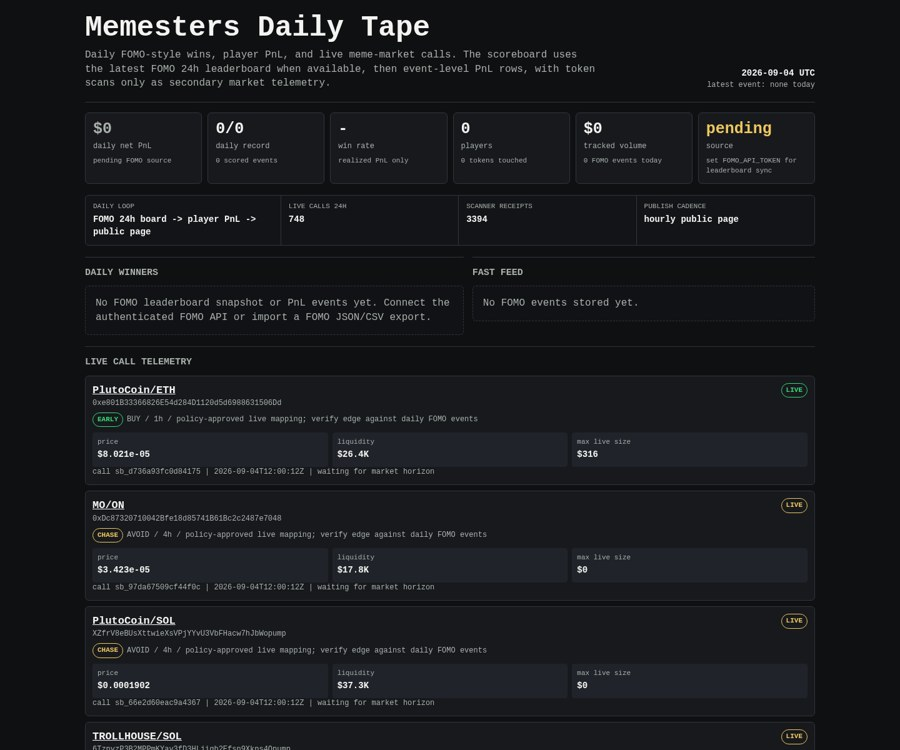
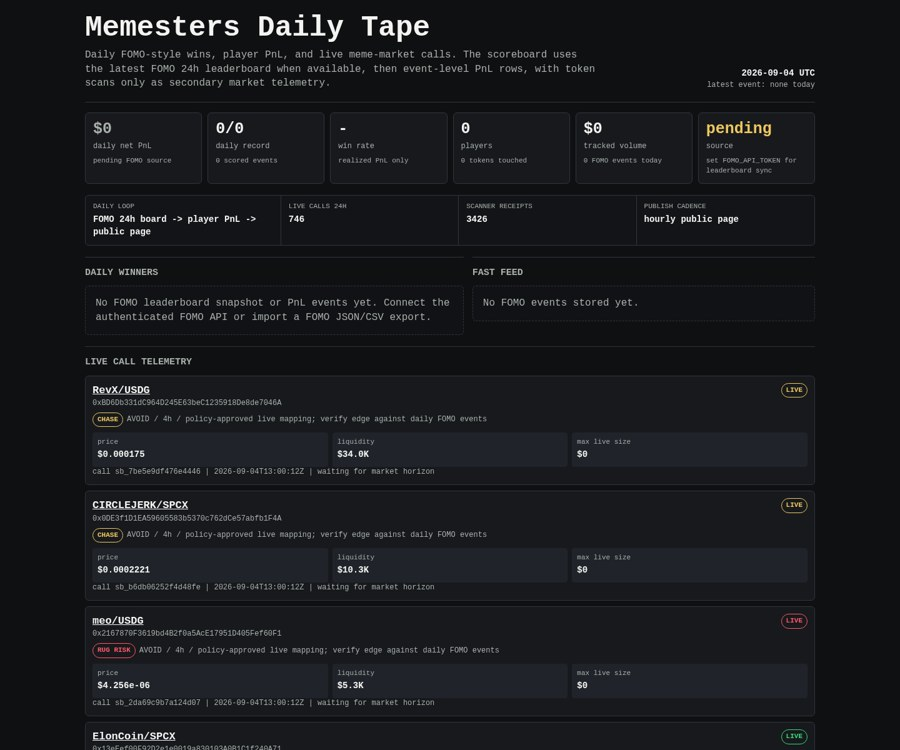
Update Memesters scoreboard

diff --git a/memesters/index.html b/memesters/index.html
@@ -149,8 +149,8 @@
 
     <div class="rail" aria-label="live operating loop">
       <div><span>daily loop</span><b>FOMO 24h board -> player PnL -> public page</b></div>
-      <div><span>live calls 24h</span><b>748</b></div>
-      <div><span>scanner receipts</span><b>3394</b></div>
+      <div><span>live calls 24h</span><b>746</b></div>
+      <div><span>scanner receipts</span><b>3426</b></div>
       <div><span>publish cadence</span><b>hourly public page</b></div>
     </div>
 
@@ -171,29 +171,8 @@
     <article class="receipt">
       <div class="receipt-head">
         <div>
-          <div class="pair"><a href="https://dexscreener.com/robinhood/0x547f366ce789671f0800890b6f69a44150104eac425c7446775c95072f25ee17">PlutoCoin/ETH</a></div>
-          <div class="addr">0xe801B33366826E54d284D1120d5d6988631506Dd</div>
-          <div class="addr policy-line">
-            <span class="badge early">EARLY</span>
-            <span>BUY / 1h / policy-approved live mapping; verify edge against daily FOMO events</span>
-          </div>
-        </div>
-        <span class="badge early">LIVE</span>
-      </div>
-      <div class="receipt-grid">
-        <div class="kv"><span>price</span><b>$8.021e-05</b></div>
-        <div class="kv"><span>liquidity</span><b>$26.4K</b></div>
-        <div class="kv"><span>max live size</span><b>$316</b></div>
-      </div>
-      <div class="outcomes">call sb_d736a93fc0d84175 | 2026-09-04T12:00:12Z | waiting for market horizon</div>
-    </article>
-    
-
-    <article class="receipt">
-      <div class="receipt-head">
-        <div>
-          <div class="pair"><a href="https://dexscreener.com/robinhood/0x0dbfebbeaf88e0c32e93ea5b35efc3735b5ebab4">MO/ON</a></div>
-          <div class="addr">0xDc87320710042Bfe18d85741B61Bc2c2487e7048</div>
+          <div class="pair"><a href="https://dexscreener.com/robinhood/0x06a1fac1db313975b282ab85ef0ca356c6651971b635905f13ba84a0ab711c8e">RevX/USDG</a></div>
+          <div class="addr">0xBD6Db331dC964D245E63beC1235918De8de7046A</div>
           <div class="addr policy-line">
             <span class="badge chase">CHASE</span>
             <span>AVOID / 4h / policy-approved live mapping; verify edge against daily FOMO events</span>
@@ -202,19 +181,19 @@
         <span class="badge chase">LIVE</span>
       </div>
       <div class="receipt-grid">
-        <div class="kv"><span>price</span><b>$3.423e-05</b></div>
-        <div class="kv"><span>liquidity</span><b>$17.8K</b></div>
+        <div class="kv"><span>price</span><b>$0.000175</b></div>
+        <div class="kv"><span>liquidity</span><b>$34.0K</b></div>
         <div class="kv"><span>max live size</span><b>$0</b></div>
       </div>
-      <div class="outcomes">call sb_97da67509cf44f0c | 2026-09-04T12:00:12Z | waiting for market horizon</div>
+      <div class="outcomes">call sb_7be5e9df476e4446 | 2026-09-04T13:00:12Z | waiting for market horizon</div>
     </article>
     
 
     <article class="receipt">
       <div class="receipt-head">
         <div>
-          <div class="pair"><a href="https://dexscreener.com/solana/bdazwe74wrmlnoz4w4vk2zbumlcdpff35eqv8qycabpx">PlutoCoin/SOL</a></div>
-          <div class="addr">XZfrV8eBUsXttwieXsVPjYYvU3VbFHacw7hJbWopump</div>
+          <div class="pair"><a href="https://dexscreener.com/robinhood/0x812cefa35f263bf743ec2d003c05399e5f484352194c3d549a70cb2abfdecf94">CIRCLEJERK/SPCX</a></div>
+          <div class="addr">0x0DE3f1D1EA59605583b5370c762dCe57abfb1F4A</div>
           <div class="addr policy-line">
             <span class="badge chase">CHASE</span>
             <span>AVOID / 4h / policy-approved live mapping; verify edge against daily FOMO events</span>
@@ -223,103 +202,19 @@
         <span class="badge chase">LIVE</span>
       </div>
       <div class="receipt-grid">
-        <div class="kv"><span>price</span><b>$0.0001902</b></div>
-        <div class="kv"><span>liquidity</span><b>$37.3K</b></div>
+        <div class="kv"><span>price</span><b>$0.0002221</b></div>
+        <div class="kv"><span>liquidity</span><b>$10.3K</b></div>
         <div class="kv"><span>max live size</span><b>$0</b></div>
       </div>
-      <div class="outcomes">call sb_66e2d60eac9a4367 | 2026-09-04T12:00:12Z | waiting for market horizon</div>
+      <div class="outcomes">call sb_b6db06252f4d48fe | 2026-09-04T13:00:12Z | waiting for market horizon</div>
     </article>
     
 
     <article class="receipt">
       <div class="receipt-head">
         <div>
-          <div class="pair"><a href="https://dexscreener.com/solana/95axhoby1zmgihdzhphvprvlqk2sza1stgd8ab9ru7fh">TROLLHOUSE/SOL</a></div>
-          <div class="addr">6TzpyzP3B2MPPmKYay3fD3HLjigb2Efsn9Xkps4Qpump</div>
-          <div class="addr policy-line">
-            <span class="badge chase">CHASE</span>
-            <span>AVOID / 4h / policy-approved live mapping; verify edge against daily FOMO events</span>
-          </div>
-        </div>
-        <span class="badge chase">LIVE</span>
-      </div>
-      <div class="receipt-grid">
-        <div class="kv"><span>price</span><b>$0.0002445</b></div>
-        <div class="kv"><span>liquidity</span><b>$41.3K</b></div>
-        <div class="kv"><span>max live size</span><b>$0</b></div>
-      </div>
-      <div class="outcomes">call sb_d5428a47d7a84d4c | 2026-09-04T12:00:12Z | waiting for market horizon</div>
-    </article>
-    
-
-    <article class="receipt">
-      <div class="receipt-head">
-        <div>
-          <div class="pair"><a href="https://dexscreener.com/robinhood/0x9d3e7931d8aede8fd612dfc4217da14733439272a249a92fbf212ddb4d4a69d6">PLUTOCOIN/SPCX</a></div>
-          <div class="addr">0x39d7E739366777B372297E03c92D69205d5BdB4e</div>
-          <div class="addr policy-line">
-            <span class="badge chase">CHASE</span>
-            <span>AVOID / 4h / policy-approved live mapping; verify edge against daily FOMO events</span>
-          </div>
-        </div>
-        <span class="badge chase">LIVE</span>
-      </div>
-      <div class="receipt-grid">
-        <div class="kv"><span>price</span><b>$0.001085</b></div>
-        <div class="kv"><span>liquidity</span><b>$97.9K</b></div>
-        <div class="kv"><span>max live size</span><b>$0</b></div>
-      </div>
-      <div class="outcomes">call sb_162a52e43afb4bb7 | 2026-09-04T12:00:12Z | waiting for market horizon</div>
-    </article>
-    
-
-    <article class="receipt">
-      <div class="receipt-head">
-        <div>
-          <div class="pair"><a href="https://dexscreener.com/robinhood/0xedf5d3c9f4a0cb59734c13e73309d70ddafa19ca113790449311554a6f6c4f4e">18932/SPCX</a></div>
-          <div class="addr">0x5759A852243A56A48853Af1d28fd4e0f33747C9B</div>
-          <div class="addr policy-line">
-            <span class="badge chase">CHASE</span>
-            <span>AVOID / 4h / policy-approved live mapping; verify edge against daily FOMO events</span>
-          </div>
-        </div>
-        <span class="badge chase">LIVE</span>
-      </div>
-      <div class="receipt-grid">
-        <div class="kv"><span>price</span><b>$0.006263</b></div>
-        <div class="kv"><span>liquidity</span><b>$235.4K</b></div>
-        <div class="kv"><span>max live size</span><b>$0</b></div>
-      </div>
-      <div class="outcomes">call sb_b291048346124215 | 2026-09-04T12:00:12Z | waiting for market horizon</div>
-    </article>
-    
-
-    <article class="receipt">
-      <div class="receipt-head">
-        <div>
-          <div class="pair"><a href="https://dexscreener.com/robinhood/0x7764afac39703757f18db750c8cbd46cd3cfcef56eb2152597e09a91d7f477fc">MoonCoin/SPCX</a></div>
-          <div class="addr">0x7a99d79134A26CE90f0Cb98B8Eab2c8557E1660a</div>
-          <div class="addr policy-line">
-            <span class="badge early">EARLY</span>
-            <span>BUY / 1h / policy-approved live mapping; verify edge against daily FOMO events</span>
-          </div>
-        </div>
-        <span class="badge early">LIVE</span>
-      </div>
-      <div class="receipt-grid">
-        <div class="kv"><span>price</span><b>$5.748e-05</b></div>
-        <div class="kv"><span>liquidity</span><b>$22.5K</b></div>
-        <div class="kv"><span>max live size</span><b>$270</b></div>
-      </div>
-      <div class="outcomes">call sb_96beab78249e484f | 2026-09-04T12:00:11Z | waiting for market horizon</div>
-    </article>
-    
-
-    <article class="receipt">
-      <div class="receipt-head">
-        <div>
-          <div class="pair"><a href="https://dexscreener.com/robinhood/0xb2947784437596671c8c078edaf5e165a1b8d25476d13c6a63118efc5fdf0e02">Uranus/SPCX</a></div>
-          <div class="addr">0x8cAfcf3aA6F10D901F88dB2c8818e6fE787f8CcF</div>
+          <div class="pair"><a href="https://dexscreener.com/robinhood/0x1f3e800e7dadcffb2dba6bf8cab24249f4d3f3a0025ce46cbd752e2ff3875b16">meo/USDG</a></div>
+          <div class="addr">0x2167870F3619bd4B2f0a5AcE17951D405Fef60F1</div>
           <div class="addr policy-line">
             <span class="badge rug-risk">RUG RISK</span>
             <span>AVOID / 4h / policy-approved live mapping; verify edge against daily FOMO events</span>
@@ -328,19 +223,19 @@
         <span class="badge rug-risk">LIVE</span>
       </div>
       <div class="receipt-grid">
-        <div class="kv"><span>price</span><b>$4.221e-05</b></div>
-        <div class="kv"><span>liquidity</span><b>$19.3K</b></div>
+        <div class="kv"><span>price</span><b>$4.256e-06</b></div>
+        <div class="kv"><span>liquidity</span><b>$5.3K</b></div>
         <div class="kv"><span>max live size</span><b>$0</b></div>
       </div>
-      <div class="outcomes">call sb_d5d643b1799349fb | 2026-09-04T12:00:11Z | waiting for market horizon</div>
+      <div class="outcomes">call sb_2da69c9b7a124d07 | 2026-09-04T13:00:12Z | waiting for market horizon</div>
     </article>
     
 
     <article class="receipt">
       <div class="receipt-head">
         <div>
-          <div class="pair"><a href="https://dexscreener.com/ethereum/0xdbebd228442a4a8e46c0e768a7f89a167e7c8bb3880bfca2c75ca67c1c5c8cb3">AP/NVDAon</a></div>
-          <div class="addr">0x8602B2Fd8D105a56d3152E936e66b1d414142148</div>
+          <div class="pair"><a href="https://dexscreener.com/robinhood/0x1bf069a5a7690eb8c7b812f95252ca62de6dcb93a92b9773cb7129d168e263d4">ElonCoin/SPCX</a></div>
+          <div class="addr">0x13eEef00F92D2e1e0019a830103A0B1C1f240A71</div>
           <div class="addr policy-line">
             <span class="badge early">EARLY</span>
             <span>BUY / 1h / policy-approved live mapping; verify edge against daily FOMO events</span>
@@ -349,19 +244,124 @@
         <span class="badge early">LIVE</span>
       </div>
       <div class="receipt-grid">
-        <div class="kv"><span>price</span><b>$0.0002795</b></div>
-        <div class="kv"><span>liquidity</span><b>$63.2K</b></div>
-        <div class="kv"><span>max live size</span><b>$759</b></div>
+        <div class="kv"><span>price</span><b>$4.622e-05</b></div>
+        <div class="kv"><span>liquidity</span><b>$20.1K</b></div>
+        <div class="kv"><span>max live size</span><b>$241</b></div>
       </div>
-      <div class="outcomes">call sb_b068b5dfc771492a | 2026-09-04T11:45:11Z | waiting for market horizon</div>
+      <div class="outcomes">call sb_c648e2e0c46f4e6b | 2026-09-04T13:00:12Z | waiting for market horizon</div>
     </article>
     
 
     <article class="receipt">
       <div class="receipt-head">
         <div>
-          <div class="pair"><a href="https://dexscreener.com/robinhood/0x245d22d36ae072c177150771152b6ecad667859c84f4d7b342a94981269e0ce9">AMCN/WETH</a></div>
-          <div class="addr">0xfA22044134d988f07E92447AB73b29Fa43287B49</div>
+          <div class="pair"><a href="https://dexscreener.com/solana/6mgg5ditvny5rnhqthmzqpmrutaw76lyhorqmuluczwh">RETURN/SOL</a></div>
+          <div class="addr">5ssJ4XKg6tLvzmPzy5nLJv6xM7GA5SdrNEmdjiRgpump</div>
+          <div class="addr policy-line">
+            <span class="badge early">EARLY</span>
+            <span>BUY / 1h / policy-approved live mapping; verify edge against daily FOMO events</span>
+          </div>
+        </div>
+        <span class="badge early">LIVE</span>
+      </div>
+      <div class="receipt-grid">
+        <div class="kv"><span>price</span><b>$7.692e-05</b></div>
+        <div class="kv"><span>liquidity</span><b>$21.9K</b></div>
+        <div class="kv"><span>max live size</span><b>$262</b></div>
+      </div>
+      <div class="outcomes">call sb_c747f1a0d54d469f | 2026-09-04T13:00:12Z | waiting for market horizon</div>
+    </article>
+    
+
+    <article class="receipt">
+      <div class="receipt-head">
+        <div>
+          <div class="pair"><a href="https://dexscreener.com/robinhood/0x427159e5feb15a12c15fff5579fe228fd806616f4025f7cb86a8365086e503a8">NSFW/RDDT</a></div>
+          <div class="addr">0x8d08f896c53bD38C2472DcD5C75428DC44c3444E</div>
+          <div class="addr policy-line">
+            <span class="badge early">EARLY</span>
+            <span>BUY / 1h / policy-approved live mapping; verify edge against daily FOMO events</span>
+          </div>
+        </div>
+        <span class="badge early">LIVE</span>
+      </div>
+      <div class="receipt-grid">
+        <div class="kv"><span>price</span><b>$0.0001172</b></div>
+        <div class="kv"><span>liquidity</span><b>$25.0K</b></div>
+        <div class="kv"><span>max live size</span><b>$167</b></div>
+      </div>
+      <div class="outcomes">call sb_53feed365419406d | 2026-09-04T13:00:12Z | waiting for market horizon</div>
+    </article>
+    
+
+    <article class="receipt">
+      <div class="receipt-head">
+        <div>
+          <div class="pair"><a href="https://dexscreener.com/robinhood/0x7bc94927bbf277374698fc86920013fe664e825ad1545fdb4d042138283349be">TOADY/ETH</a></div>
+          <div class="addr">0x5678B3e659CF203C20f27A881e0Ddd3af25037cc</div>
+          <div class="addr policy-line">
+            <span class="badge early">EARLY</span>
+            <span>BUY / 1h / policy-approved live mapping; verify edge against daily FOMO events</span>
+          </div>
+        </div>
+        <span class="badge early">LIVE</span>
+      </div>
+      <div class="receipt-grid">
+        <div class="kv"><span>price</span><b>$1.218e-05</b></div>
+        <div class="kv"><span>liquidity</span><b>$9.4K</b></div>
+        <div class="kv"><span>max live size</span><b>$30</b></div>
+      </div>
+      <div class="outcomes">call sb_5283a2c6799d4388 | 2026-09-04T13:00:12Z | waiting for market horizon</div>
+    </article>
+    
+
+    <article class="receipt">
+      <div class="receipt-head">
+        <div>
+          <div class="pair"><a href="https://dexscreener.com/solana/9a3abfexaxp66uyb2sshgbw74jtwzatwv6w58d6e3rr8">rubinhud/SOL</a></div>
+          <div class="addr">7KkgU73L1eBejV9uB95WHimxsoG7NZLsnCV7GDMCpump</div>
+          <div class="addr policy-line">
+            <span class="badge rug-risk">RUG RISK</span>
+            <span>AVOID / 4h / policy-approved live mapping; verify edge against daily FOMO events</span>
+          </div>
+        </div>
+        <span class="badge rug-risk">LIVE</span>
+      </div>
+      <div class="receipt-grid">
+        <div class="kv"><span>price</span><b>$1.519e-05</b></div>
+        <div class="kv"><span>liquidity</span><b>$8.7K</b></div>
+        <div class="kv"><span>max live size</span><b>$0</b></div>
+      </div>
+      <div class="outcomes">call sb_9fd90c847f5942e6 | 2026-09-04T13:00:11Z | waiting for market horizon</div>
+    </article>
+    
+
+    <article class="receipt">
+      <div class="receipt-head">
+        <div>
+          <div class="pair"><a href="https://dexscreener.com/solana/6d5igrmd7z9h6lyj3sp7wt8pnu5cej6cuuayr5n9uszp">PonsHouse/SOL</a></div>
+          <div class="addr">4fRvdV4ekoBccdFAQQEYVFE5cVpA1wVVeYSv3T3Dpump</div>
+          <div class="addr policy-line">
+            <span class="badge rug-risk">RUG RISK</span>
+            <span>AVOID / 4h / policy-approved live mapping; verify edge against daily FOMO events</span>
+          </div>
+        </div>
+        <span class="badge rug-risk">LIVE</span>
+      </div>
+      <div class="receipt-grid">
+        <div class="kv"><span>price</span><b>$2.253e-06</b></div>
+        <div class="kv"><span>liquidity</span><b>$2.5K</b></div>
+        <div class="kv"><span>max live size</span><b>$0</b></div>
+      </div>
+      <div class="outcomes">call sb_7ebd442a30664ad8 | 2026-09-04T12:45:13Z | waiting for market horizon</div>
+    </article>
+    
+
+    <article class="receipt">
+      <div class="receipt-head">
+        <div>
+          <div class="pair"><a href="https://dexscreener.com/robinhood/0xe1bec667272c632e8f79b77b0321021c938298f52788d47e2f1c7eab595dae3d">7645/WETH</a></div>
+          <div class="addr">0x31F49Cd40827C308B1fbC23314C0D069ee746B15</div>
           <div class="addr policy-line">
             <span class="badge chase">CHASE</span>
             <span>AVOID / 4h / policy-approved live mapping; verify edge against daily FOMO events</span>
@@ -370,11 +370,11 @@
         <span class="badge chase">LIVE</span>
       </div>
       <div class="receipt-grid">
-        <div class="kv"><span>price</span><b>$1.14e-06</b></div>
-        <div class="kv"><span>liquidity</span><b>$85.2K</b></div>
+        <div class="kv"><span>price</span><b>$0.0001686</b></div>
+        <div class="kv"><span>liquidity</span><b>$104.0K</b></div>
         <div class="kv"><span>max live size</span><b>$0</b></div>
       </div>
-      <div class="outcomes">call sb_e45ee44c077b42fa | 2026-09-04T11:45:11Z | waiting for market horizon</div>
+      <div class="outcomes">call sb_f652668b0b284066 | 2026-09-04T12:45:13Z | waiting for market horizon</div>
     </article>
     
     </section>
